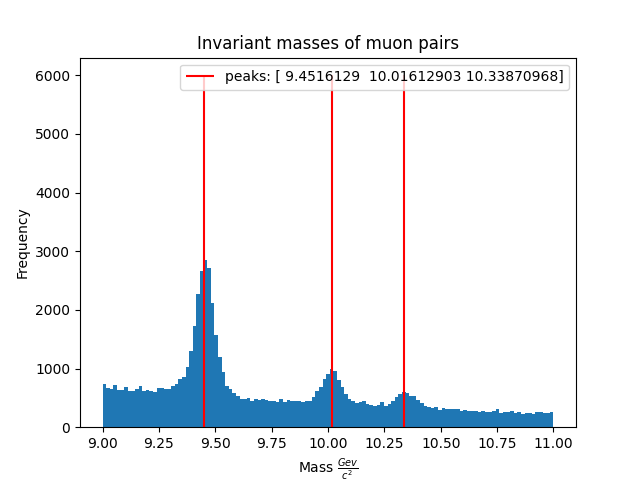
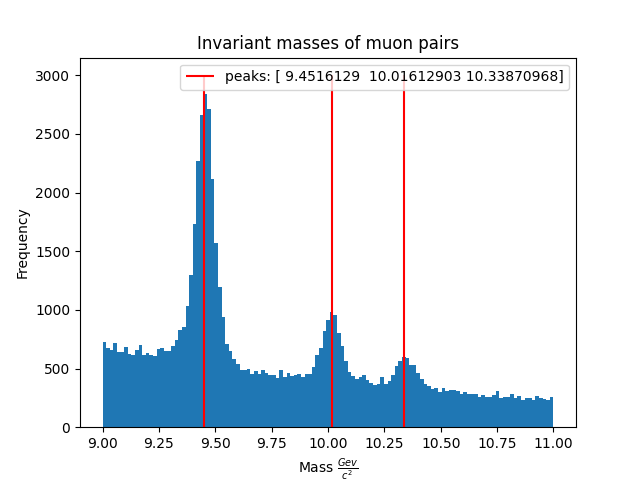
done!

diff --git a/main.py b/main.py
@@ -69,7 +69,7 @@ def findPeaks(x):
     print("Mass difference between muon 1 and 3: ", muon31diff, r"$\frac{GeV}{c^2}$")
 
     plt.hist(x, bins=125, range=[9, 11])
-    plt.vlines(peaks_M, ymin=[0], ymax=[6000], colors=["red"], label=f"peaks: {peaks_M}")
+    plt.vlines(peaks_M, ymin=[0], ymax=[3000], colors=["red"], label=f"peaks: {peaks_M}")
 
     plt.legend()
     plt.xlabel(r"Mass $\frac{Gev}{c^2}$")
@@ -98,13 +98,23 @@ def signalToNoise(mass_array, peaks_bin, peaks):
     rhsCounts = countsInBound(mass_array, side_centres[1], 0.075)
 
     plt.hist(mass_array, bins=125, range=[9, 11])
-    plt.vlines([peaks[0]+bound, peaks[0]-bound], colors="blue", linestyles="--", ymax=[6000], ymin=[0])
-    plt.show()
+    plt.vlines([peaks[0]+bound, peaks[0]-bound], colors="blue", linestyles="--", ymax=[3000], ymin=[0])
+    plt.vlines([side_centres[0] - 0.075, side_centres[0] + 0.075, side_centres[1] - 0.075, side_centres[1] + 0.075], colors="blue", linestyles="dashdot", ymax=[3000], ymin= [0])
+    plt.savefig("sorry.png")
 
     print(f"counts in s1 region: {peakCounts}")
     print(f"side region centres: {side_centres}")
     print(f"side counts: {lhsCounts, rhsCounts}")
 
+    m = (rhsCounts - lhsCounts) / (side_centres[1] - side_centres[0])
+    print("THE GRADIANT!!!!!", m)
+
+    N_shrig= peakCounts + m*(lhsCounts+rhsCounts)
+    print(N_shrig)
+
+    B_at_peak = (lhsCounts + rhsCounts)/ 2
+    print(B_at_peak, "PEAK PEAK EPAK BACKGROUND NOISE!!")
+    print(peakCounts - B_at_peak, "this is our answer!")
     # find counts in equal regions each side of the first region diameters 0.15
     # assuming linear falling in noise fit 
 
